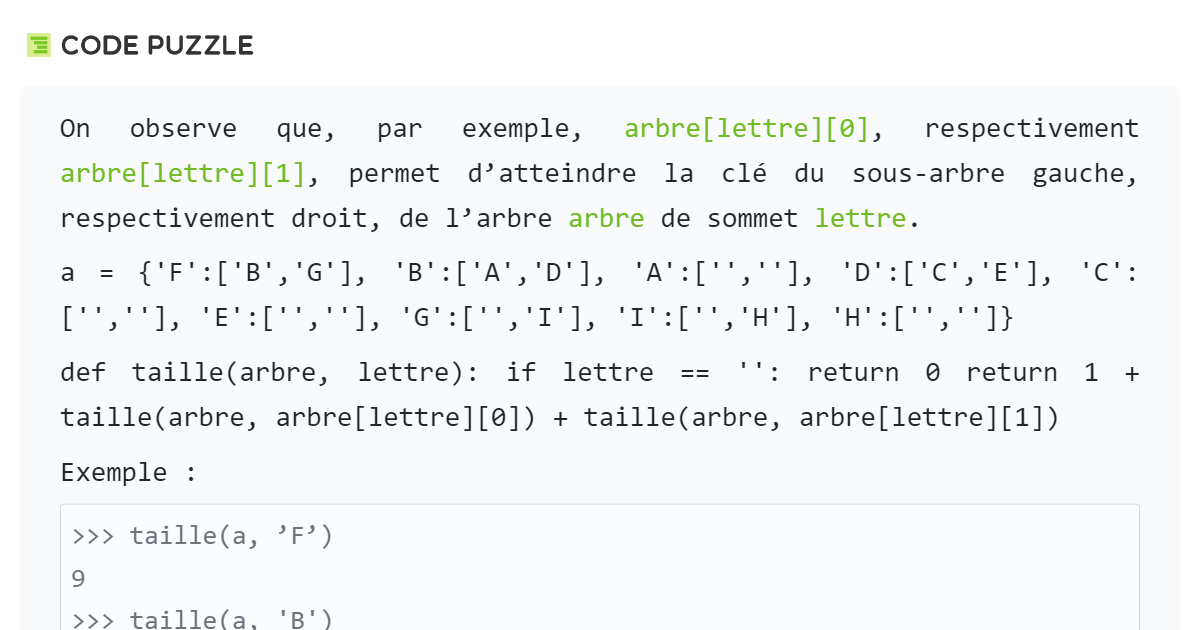
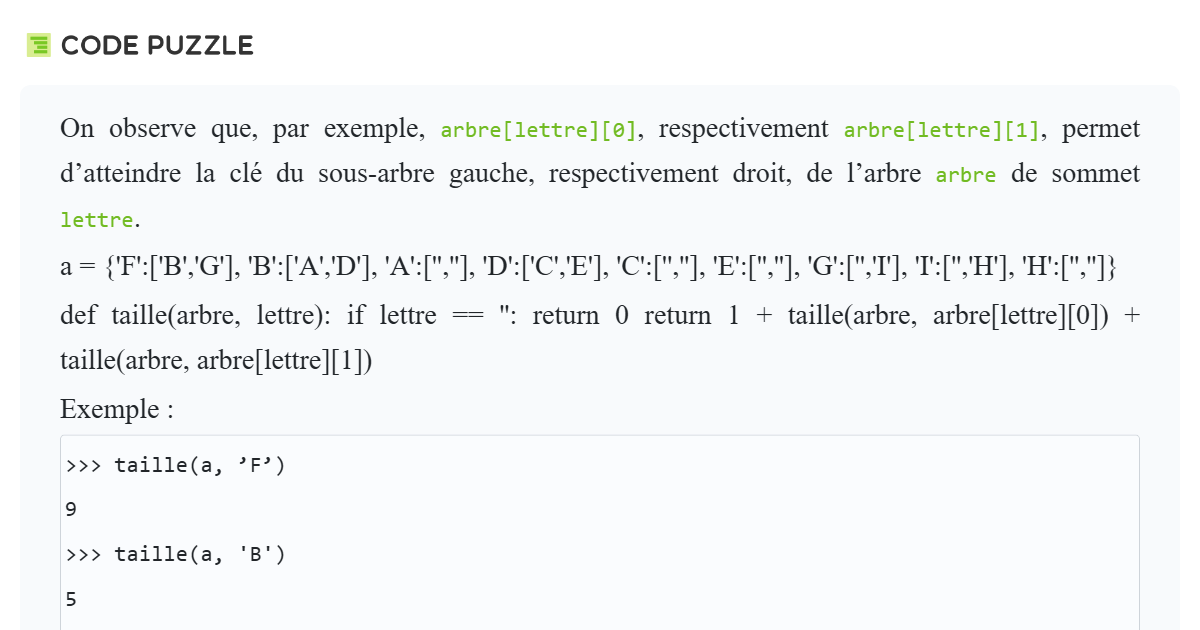
~

diff --git a/public/css/custom.css b/public/css/custom.css
@@ -103,7 +103,10 @@ h2 {
     border:solid 1px #ced4da;
     background-color:#fafcfe;
     border-radius:4px;
-    font-size:80% !important;
+}
+
+.markdown_content code {
+    font-size:85% !important;
 }
 
 

diff --git a/public/css/easymde-custom.css b/public/css/easymde-custom.css
@@ -90,5 +90,8 @@
     border:solid 1px #ced4da;
     background-color:#fafcfe;
     border-radius:4px;
-    font-size:80%;
+}
+
+.editor-preview code {
+    font-size:85%;
 }

diff --git a/resources/views/defi.blade.php b/resources/views/defi.blade.php
@@ -21,7 +21,7 @@ $code_pre_tests = $defi->code_pre_tests;
     <title>{{ config('app.name') }} | Défi - D{{ $jeton }}</title>
 </head>
 
-<body class="no-mathjax" oncontextmenu="return false" onselectstart="return false" ondragstart="return false">
+<body oncontextmenu="return false" onselectstart="return false" ondragstart="return false">
 
 	<?php
 	// defi avec jeton eleve
@@ -70,7 +70,7 @@ $code_pre_tests = $defi->code_pre_tests;
 	<div class="container-fluid">
 
 		@if(!$iframe)
-		<h1 class="mt-2 mb-4 text-center"><a class="navbar-brand m-1" href="{{ url('/') }}"><img src="{{ asset('img/code-puzzle.png') }}" width="140" alt="CODE PUZZLE" /></a></h1>
+		<h1 class="mt-2 mb-3 text-center"><a class="navbar-brand m-1" href="{{ url('/') }}"><img src="{{ asset('img/code-puzzle.png') }}" width="140" alt="CODE PUZZLE" /></a></h1>
 		@endif
 
 		@if ($defi->with_chrono == 1 OR $defi->with_nbverif == 1)
@@ -102,32 +102,13 @@ $code_pre_tests = $defi->code_pre_tests;
 						<div class="mb-1 font-weight-bold">{{ $defi->titre_eleve }}</div>
 					@endif
 
-					<?php
-					include('lib/parsedownmath/ParsedownMath.php');
-					$Parsedown = new ParsedownMath([
-						'math' => [
-							'enabled' => true, // Write true to enable the module
-							'matchSingleDollar' => true // default false
-						]
-					]);
-					$consignes_parsed = $Parsedown->text($defi->consignes_eleve)
-					?>
-
 					@if ($defi->consignes_eleve !== NULL)
-						<div class="consignes mathjax" style="text-align:justify;">
-							<?php
-							echo $consignes_parsed;
-							?>
-						</div>
+						<div class="markdown_content consignes" style="text-align:justify;">{{$defi->consignes_eleve}}</div>
 					@endif
 
-					<div id="consignes_hidden" class="mathjax" style="padding:30px 20px 0px 20px;width:1200px;height:630px;background-color:white;display:none;">
+					<div id="consignes_hidden" style="padding:30px 20px 0px 20px;width:1200px;height:630px;background-color:white;display:none;">
 						<img src="{{ asset('img/codepuzzle.png') }}" height="30" />
-						<div class="consignes" style="text-align:justify;padding:20px 40px 20px 40px;margin-top:25px;border-radius:10px;font-size:28px;background-color:#F8FAFC;">
-							<?php
-							echo $consignes_parsed;
-							?>
-						</div>
+						<div class="markdown_content consignes" style="text-align:justify;padding:20px 40px 20px 40px;margin-top:25px;border-radius:10px;font-size:28px;background-color:#F8FAFC;">{{$defi->consignes_eleve}}</div>
 					</div>
 
 				</div>
@@ -200,6 +181,7 @@ $code_pre_tests = $defi->code_pre_tests;
 	</div><!-- container -->
 
     @include('inc-bottom-js')
+	@include('markdown/inc-markdown-afficher-js')
 
 	<script>
 		function copierCode(bouton) {
@@ -404,23 +386,6 @@ $code_pre_tests = $defi->code_pre_tests;
 			});
 		});
 	</script>
-
-
-	<script>
-		MathJax = {
-			tex: {
-				inlineMath: [['$', '$'], ['\\(', '\\)']],
-				displayMath: [ ['$$','$$'], ["\\[","\\]"] ],
-				processEscapes: true
-			},
-			options: {
-				ignoreHtmlClass: "no-mathjax",
-				processHtmlClass: "mathjax"
-			}
-		};        
-	</script>
-	<script type="text/javascript" id="MathJax-script" async src="https://cdn.jsdelivr.net/npm/mathjax@3/es5/tex-svg.js"></script> 
-
 
 	<script src="{{ asset('js/ace/ace.js') }}" type="text/javascript" charset="utf-8"></script>
 	<script>

diff --git a/resources/views/puzzle.blade.php b/resources/views/puzzle.blade.php
@@ -85,7 +85,7 @@ app()->setLocale($puzzle->lang)
     <div class="container-fluid">
 
         @if(!$iframe)
-        <h1 class="mt-2 mb-5 text-center"><a class="navbar-brand m-1" href="{{ url('/') }}"><img src="{{ asset('img/code-puzzle.png') }}" width="140" alt="CODE PUZZLE" /></a></h1>
+        <h1 class="mt-2 mb-3 text-center"><a class="navbar-brand m-1" href="{{ url('/') }}"><img src="{{ asset('img/code-puzzle.png') }}" width="140" alt="CODE PUZZLE" /></a></h1>
         @endif
 
 		@if ($puzzle->with_chrono == 1 OR $puzzle->with_chrono == 1)
@@ -120,7 +120,7 @@ app()->setLocale($puzzle->lang)
                         <div class="font-monospace small mb-1">{{ $puzzle->titre_eleve }}</div>
                     @endif
                     @if ($puzzle->consignes_eleve !== NULL)
-                        <div class="markdown_content font-monospace text-muted small consignes">{{$puzzle->consignes_eleve}}</div>
+                        <div class="markdown_content consignes">{{$puzzle->consignes_eleve}}</div>
                     @endif
                 </div>
             </div>

diff --git a/resources/views/console-puzzles.blade.php b/resources/views/console-puzzles.blade.php
@@ -127,7 +127,7 @@ IFrame('https://www.codepuzzle.io/IP{{ strtoupper($puzzle->jeton) }}', width='10
                                             <div class="mt-3 text-monospace small">{{__('CONSIGNES')}}</div>
                                         @endif
                                         @if ($puzzle->consignes_eleve !== NULL)
-                                            <div class="markdown_content border rounded bg-light text-monospace p-3">{{ $puzzle->consignes_eleve }}</div>
+                                            <div class="markdown_content border rounded bg-light p-3">{{ $puzzle->consignes_eleve }}</div>
                                         @endif
                                     @endif
                                     <div class="mt-3 text-monospace small">{{__('CODE')}}</div>

diff --git a/resources/views/console-defis.blade.php b/resources/views/console-defis.blade.php
@@ -152,7 +152,7 @@ IFrame('https://www.codepuzzle.io/ID{{ strtoupper($defi->jeton) }}', width='100%
                                             <div class="mt-3 text-monospace small">{{__('CONSIGNES')}}</div>
                                         @endif
                                         @if ($defi->consignes_eleve !== NULL)
-                                            <div class="markdown_content border rounded bg-light text-monospace p-3">{{ $defi->consignes_eleve }}</div>
+                                            <div class="markdown_content border rounded bg-light p-3">{{ $defi->consignes_eleve }}</div>
                                         @endif
                                     @endif
 
